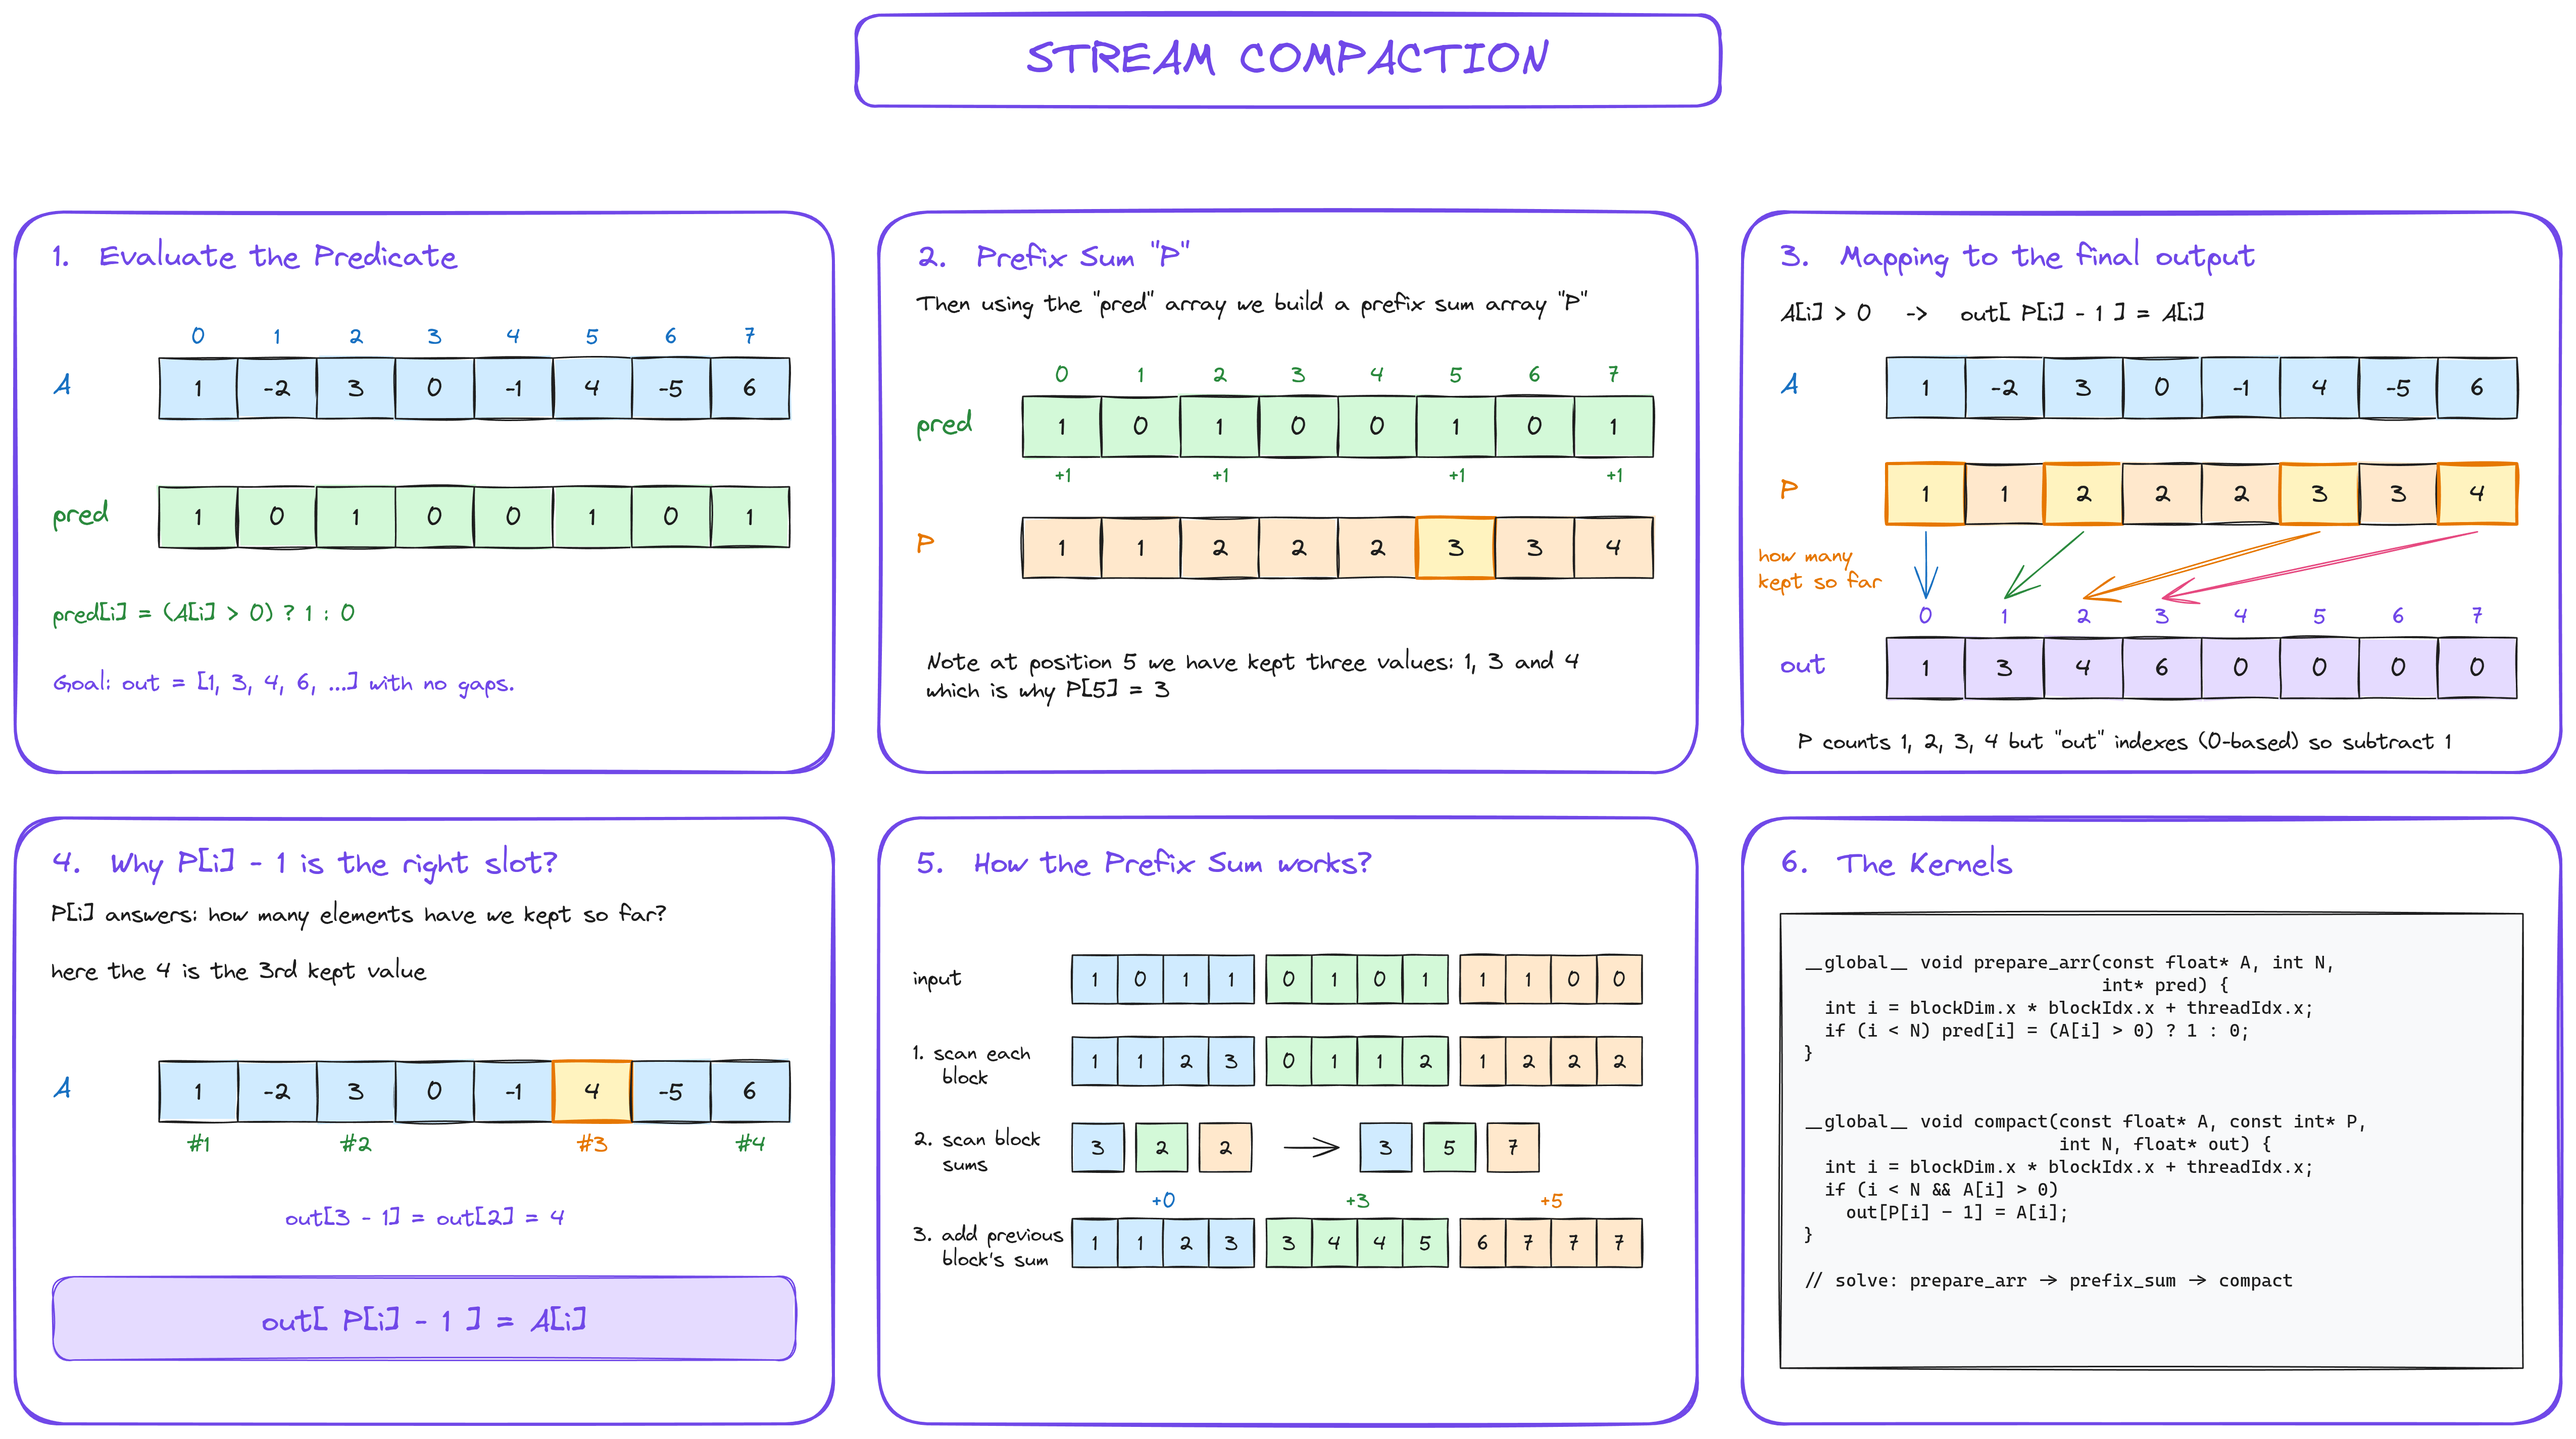
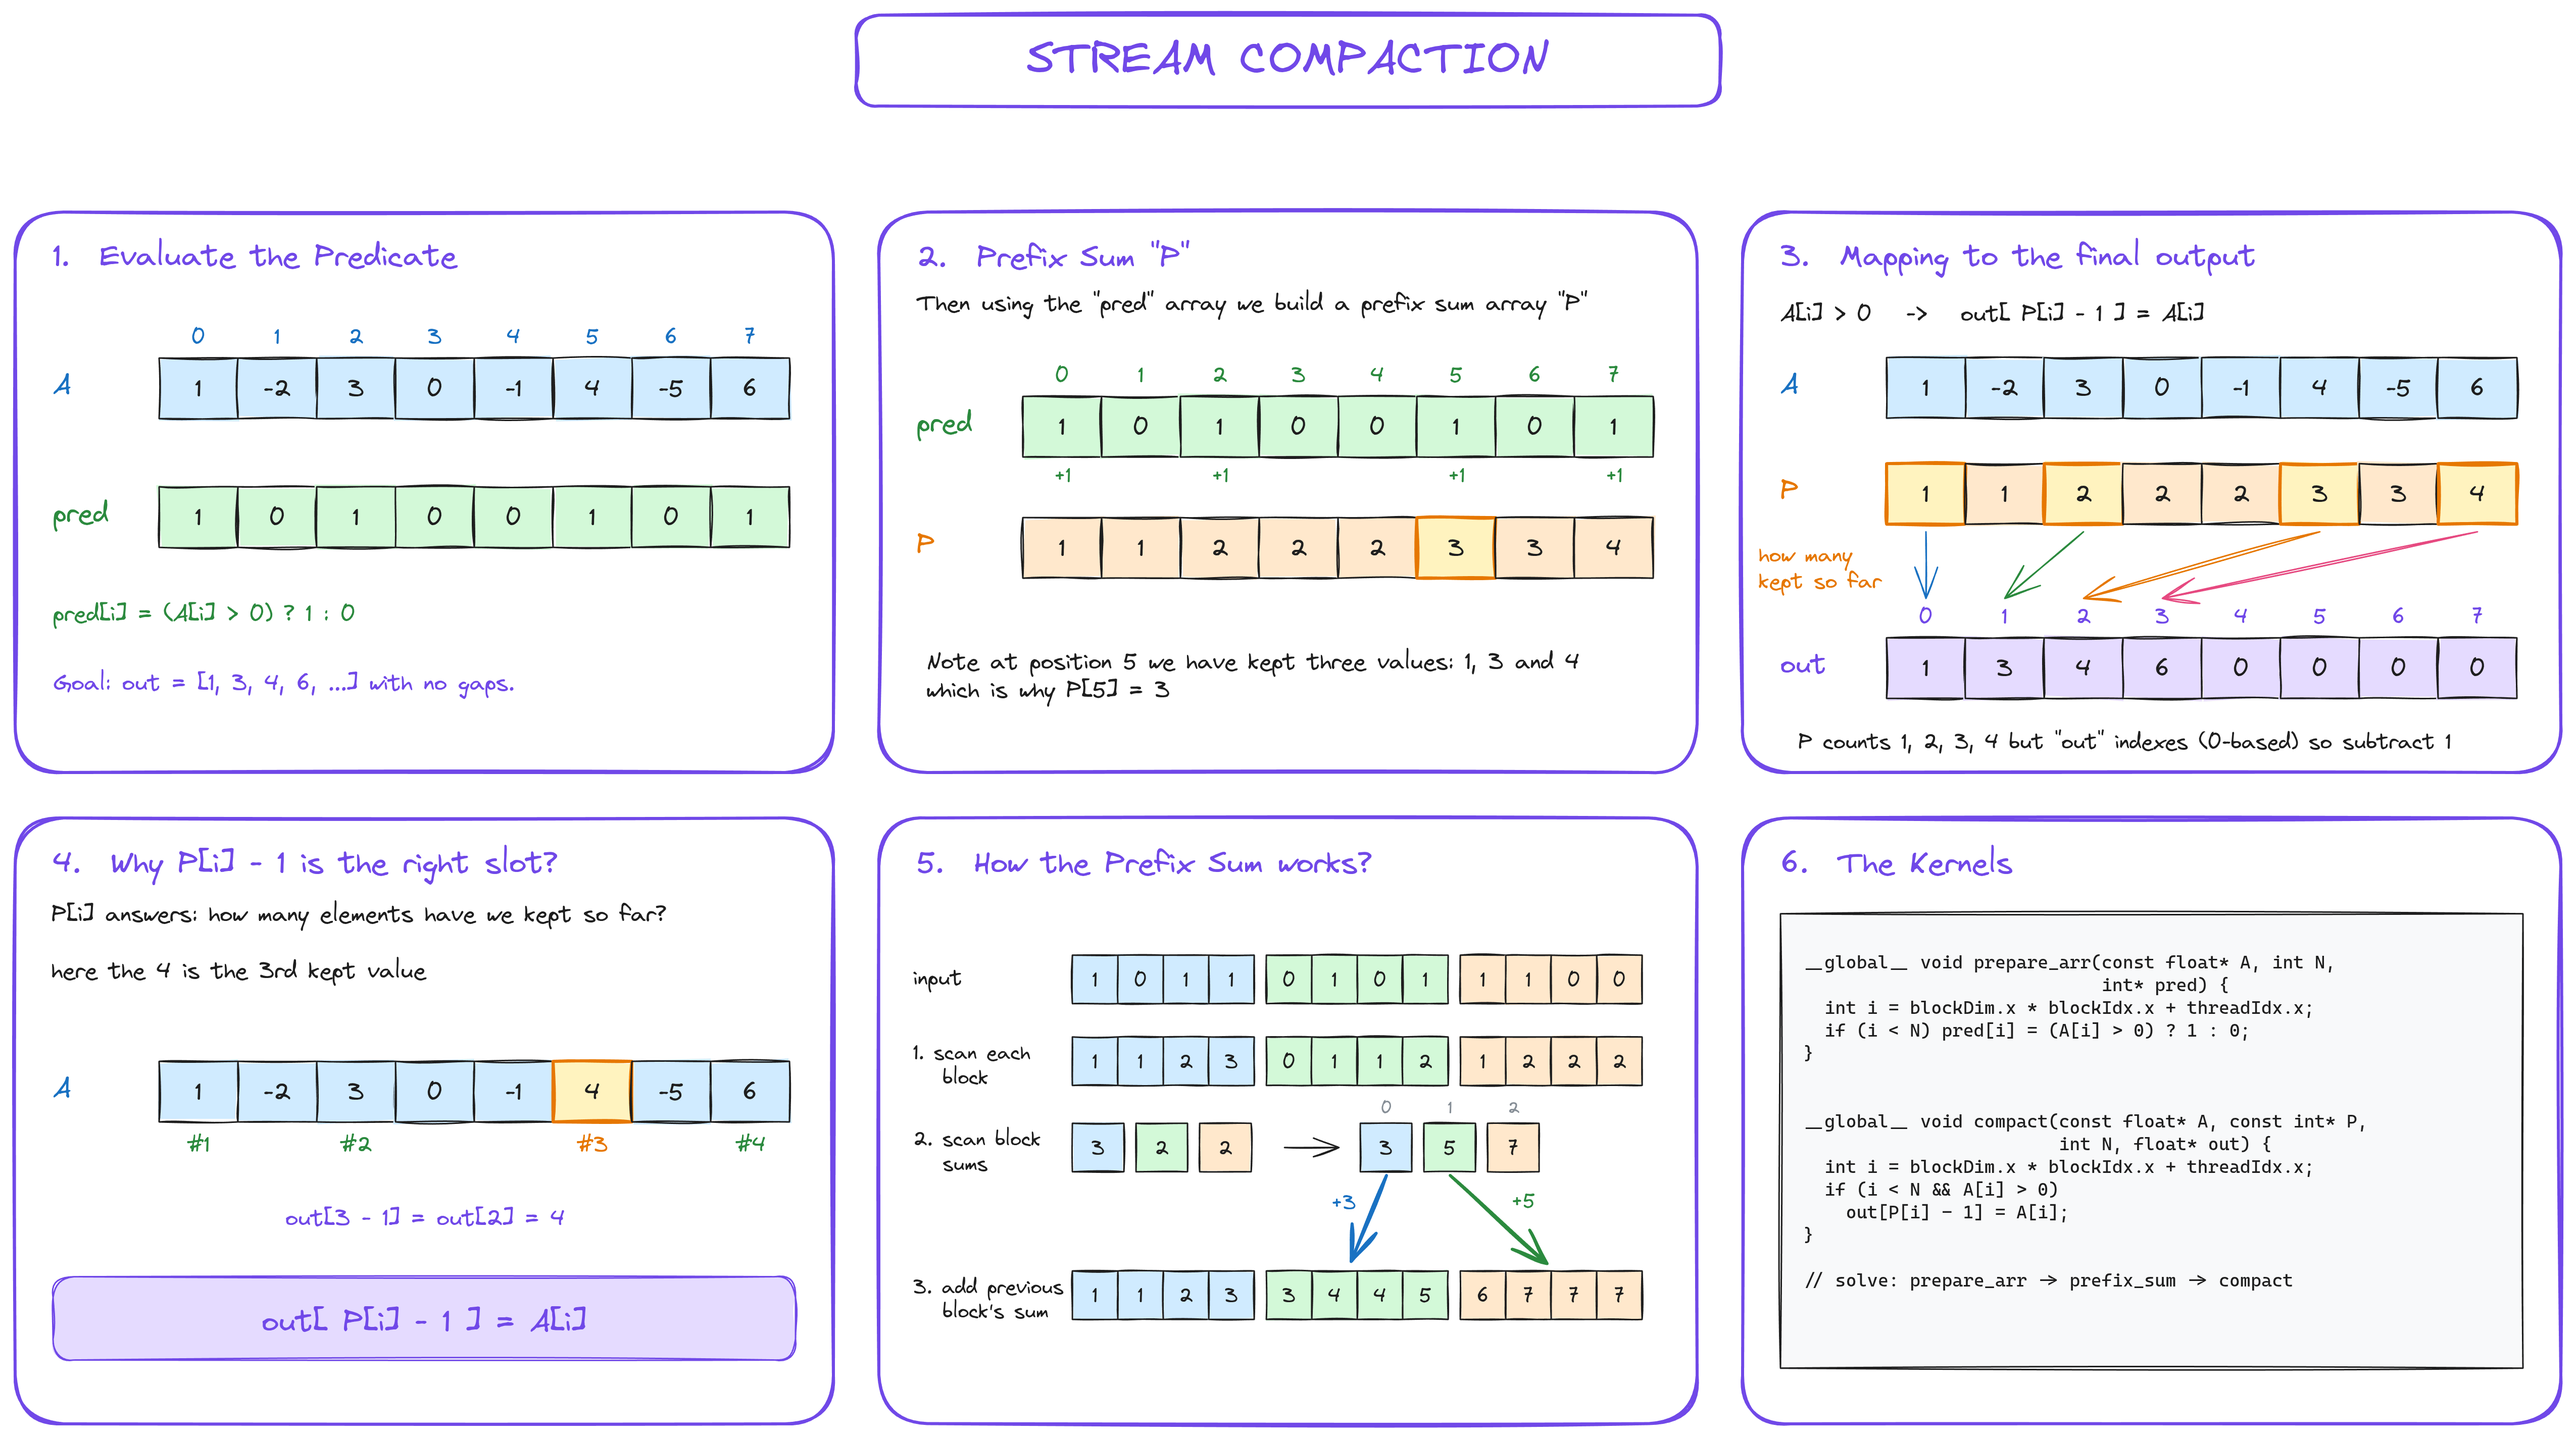
📝 update README.md: day 45

Changed region(s): [[0.3741, 0.8432, 0.6547, 0.9368]]

diff --git a/README.md b/README.md
@@ -622,3 +622,13 @@ x <= 2^32-1, y <= 65535, z <= 65535, if you do the math that is about 18.9 sexti
 - once you see the "trick", it should be clear what to do: create an array and mark every positive value with a `1`, run a prefix sum on that array, then use `prefix_sums[i] - 1` as the position where each positive value lands in the output. see the image below.
 
 ![Stream Compaction](images/stream_compaction.png)
+
+### Day 45
+
+- solved the LeetGPU [Linear Self-Attention](day45/linear_self_attention.cu) problem. standard attention compares every token with every other token, building an `M x M` score matrix. that makes both time and memory grow quadratically with the sequence length, which can become a bottleneck for long sequences. for more details, check out the paper [Transformers are RNNs: Fast Autoregressive Transformers with Linear Attention](https://arxiv.org/pdf/2006.16236).
+
+- a cool thing about LSA is that it replaces softmax with a feature map, in this case `phi(x) = ELU(x) + 1`. without softmax in the middle, we can use the associative property of matrix multiplication to calculate `phi(K)^T @ V` first and completely avoid materializing the huge `M x M` attention matrix.
+
+- the CUDA part pretty much follows the formula. what confused me at first was the final division: we have an `M x d` matrix on top and an `M x 1` vector at the bottom. i'm used to the `sqrt(d)` scalar in vanilla attention, so this looked a bit weird. the image below shows both versions side by side:
+
+  ![Linear Self-Attention Vs. Softmax Attention](images/linear_self_attention_vs_softmax_attention.png)
